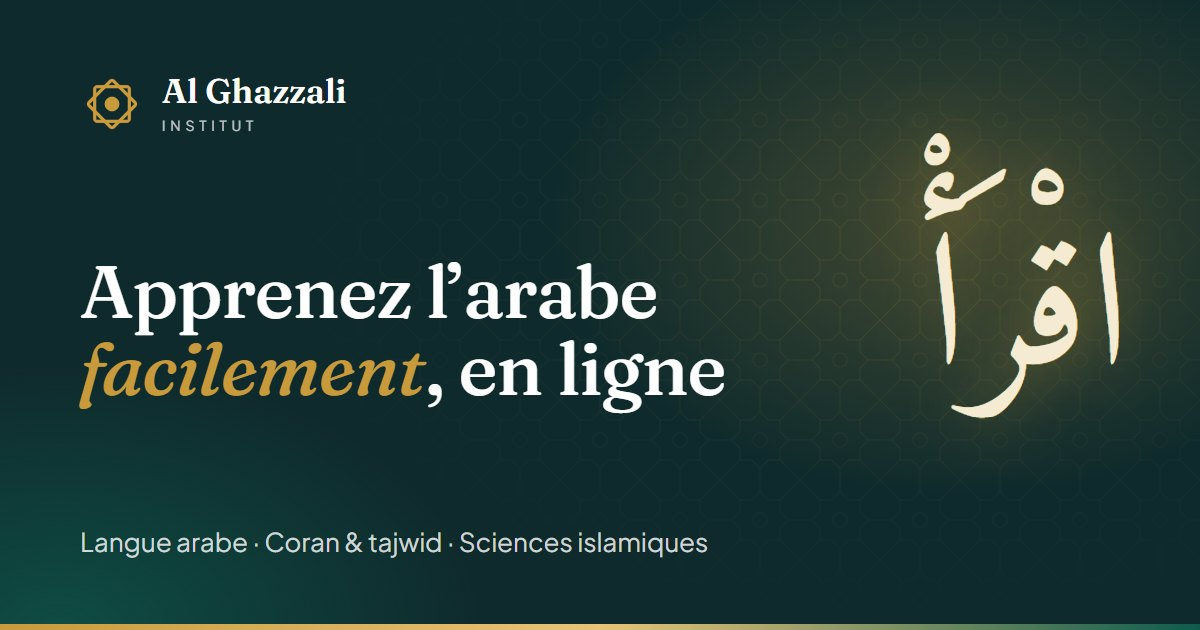
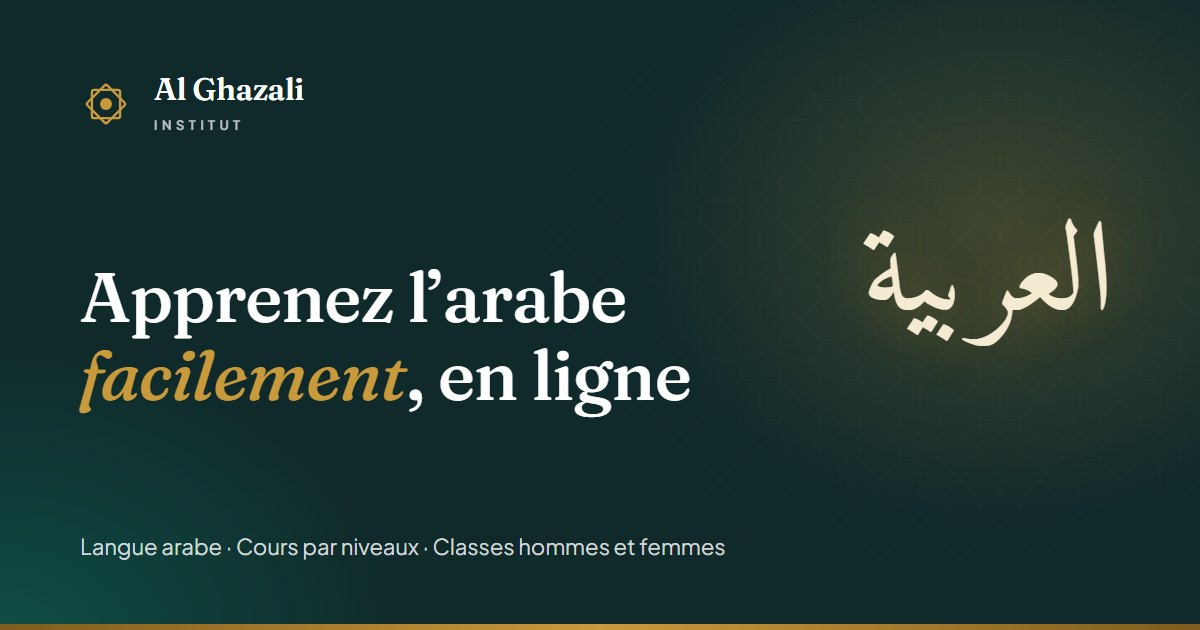
Nom de l'institut : Al Ghazali, avec un seul z (#2)
Tous les textes visibles (nom du site au premier lancement, titres SEO,
contenu de départ, Personnalisateur, en-têtes du thème et de l'extension)
passent de « Al Ghazzali » à « Al Ghazali ». Les identifiants techniques
(AlGhazzali, al-ghazzali) ne s'affichent nulle part et restent tels quels :
le thème actif en production est enregistré sous ce nom.

L'image de partage (og-default.jpg) est refaite à l'identique avec le bon
nom, et une accroche consacrée à la seule langue arabe, à la place de
« Coran & tajwid · Sciences islamiques ».

diff --git a/wp-content/themes/al-ghazzali/style.css b/wp-content/themes/al-ghazzali/style.css
@@ -1,9 +1,9 @@
 /*
-Theme Name: Al Ghazzali Institut
+Theme Name: Al Ghazali Institut
 Theme URI: https://cnx-solutions.fr
 Author: CNX Solutions
 Author URI: https://cnx-solutions.fr
-Description: Thème sur mesure de l'Al Ghazzali Institut : cours d'arabe en ligne par niveaux. Nécessite l'extension « Al Ghazzali Institut ». Rapide, accessible, animé avec sobriété et optimisé pour le référencement.
+Description: Thème sur mesure de l'Al Ghazali Institut : cours d'arabe en ligne par niveaux. Nécessite l'extension « Al Ghazali Institut ». Rapide, accessible, animé avec sobriété et optimisé pour le référencement.
 Version: 1.0.0
 Requires at least: 6.6
 Tested up to: 7.1

diff --git a/wp-content/themes/al-ghazzali/assets/js/app.js b/wp-content/themes/al-ghazzali/assets/js/app.js
@@ -1,5 +1,5 @@
 /**
- * Al Ghazzali Institut : interactions du site (JavaScript natif, sans dépendance).
+ * Al Ghazali Institut : interactions du site (JavaScript natif, sans dépendance).
  *
  * Chaque module est indépendant, ne fait rien si ses éléments sont absents
  * et respecte la préférence « mouvement réduit ». Les textes affichés viennent

diff --git a/wp-content/plugins/al-ghazzali-institut/assets/admin.css b/wp-content/plugins/al-ghazzali-institut/assets/admin.css
@@ -1,4 +1,4 @@
-/* Boîtes de saisie Al Ghazzali Institut : champs empilés et listes répétables. */
+/* Boîtes de saisie Al Ghazali Institut : champs empilés et listes répétables. */
 
 .ag-box__intro { margin: 0 0 14px; color: #50575e; }
 

diff --git a/tools/seed-content.php b/tools/seed-content.php
@@ -45,7 +45,7 @@ $faq_home = array(
 return array(
 
 	'options'       => array(
-		'blogname'               => 'Al Ghazzali Institut',
+		'blogname'               => 'Al Ghazali Institut',
 		'blogdescription'        => 'Institut de langue arabe : cours d’arabe en ligne par niveaux, classes hommes et femmes séparées.',
 		'WPLANG'                 => 'fr_FR',
 		'timezone_string'        => 'Europe/Paris',
@@ -87,11 +87,11 @@ return array(
 			'title'   => 'Accueil',
 			'excerpt' => '',
 			'meta'    => array(
-				SeoFields::TITLE       => 'Institut arabe : cours d’arabe en ligne | Al Ghazzali',
+				SeoFields::TITLE       => 'Institut arabe : cours d’arabe en ligne | Al Ghazali',
 				SeoFields::DESCRIPTION => 'Institut arabe en ligne : cours d’arabe par niveaux, en direct et en petits groupes, classes hommes et femmes séparées. Apprenez l’arabe facilement.',
 			),
 			'content' => ag_b_h2( 'Un institut arabe en ligne pour apprendre l’arabe pas à pas' )
-				. ag_b_p( 'Al Ghazzali Institut est un <strong>institut de langue arabe</strong> qui accompagne les francophones dans l’apprentissage de l’arabe, de la première lettre jusqu’à la lecture de textes authentiques. Nos <strong>cours d’arabe en ligne</strong> se déroulent en direct, en petits groupes, avec des enseignants qui suivent chaque élève.' )
+				. ag_b_p( 'Al Ghazali Institut est un <strong>institut de langue arabe</strong> qui accompagne les francophones dans l’apprentissage de l’arabe, de la première lettre jusqu’à la lecture de textes authentiques. Nos <strong>cours d’arabe en ligne</strong> se déroulent en direct, en petits groupes, avec des enseignants qui suivent chaque élève.' )
 				. ag_b_p( 'Le parcours est découpé en niveaux : lecture et écriture, vocabulaire, grammaire, compréhension, puis expression écrite et orale. Chaque niveau propose des classes séparées pour les hommes et pour les femmes, à des horaires différents.' )
 				. ag_b_h2( 'Pourquoi choisir notre institut ?' )
 				. ag_b_list(
@@ -108,16 +108,16 @@ return array(
 		),
 
 		'institut'                   => array(
-			'title'   => 'L’institut Al Ghazzali',
+			'title'   => 'L’institut Al Ghazali',
 			'order'   => 1,
 			'excerpt' => 'Un institut de langue arabe qui enseigne l’arabe aux francophones avec rigueur, clarté et bienveillance, par niveaux et en classes séparées pour hommes et femmes.',
 			'meta'    => array(
-				SeoFields::TITLE       => 'Institut arabe Al Ghazzali : notre mission et nos valeurs',
-				SeoFields::DESCRIPTION => 'Découvrez l’institut arabe Al Ghazzali : sa mission, ses valeurs et sa méthode pour enseigner la langue arabe aux francophones, par niveaux et en direct.',
+				SeoFields::TITLE       => 'Institut arabe Al Ghazali : notre mission et nos valeurs',
+				SeoFields::DESCRIPTION => 'Découvrez l’institut arabe Al Ghazali : sa mission, ses valeurs et sa méthode pour enseigner la langue arabe aux francophones, par niveaux et en direct.',
 			),
 			'content' => ag_b_h2( 'Notre mission' )
 				. ag_b_p( 'Rendre la langue arabe accessible à chaque francophone. Nous sommes convaincus qu’on peut apprendre l’arabe à tout âge, à condition d’être bien guidé : une méthode claire, des objectifs précis à chaque niveau et des enseignants disponibles.' )
-				. ag_b_h2( 'Pourquoi « Al Ghazzali » ?' )
+				. ag_b_h2( 'Pourquoi « Al Ghazali » ?' )
 				. ag_b_p( 'Notre institut porte le nom d’Abû Hâmid al-Ghazâlî (1058-1111), qui enseigna à la Nizâmiyya de Bagdad, l’une des grandes écoles de son époque. Nous retenons de lui une exigence de pédagogue : expliquer avec clarté, avancer avec méthode et faire de chaque leçon un vrai progrès.' )
 				. ag_b_h2( 'Nos valeurs' )
 				. ag_b_list(
@@ -140,7 +140,7 @@ return array(
 			'template' => 'page-templates/landing.php',
 			'excerpt'  => 'Des cours d’arabe en ligne en direct, en petits groupes, avec des classes séparées pour hommes et femmes : de l’alphabet à la compréhension des textes.',
 			'meta'     => array(
-				SeoFields::TITLE       => 'Cours d’arabe en ligne en direct | Al Ghazzali Institut',
+				SeoFields::TITLE       => 'Cours d’arabe en ligne en direct | Al Ghazali Institut',
 				SeoFields::DESCRIPTION => 'Cours d’arabe en ligne en direct : petits groupes, parcours par niveaux, classes hommes et femmes séparées. Lisez, écrivez et comprenez l’arabe pas à pas.',
 			),
 			'content'  => ag_b_h2( 'Apprendre l’arabe en ligne, avec un vrai enseignant' )
@@ -240,7 +240,7 @@ return array(
 			'template' => 'page-templates/schedule.php',
 			'excerpt'  => 'Les horaires de toutes nos classes d’arabe, jour par jour. Filtrez par formation et par classe (hommes ou femmes) pour trouver votre créneau.',
 			'meta'     => array(
-				SeoFields::TITLE       => 'Emploi du temps des cours d’arabe | Al Ghazzali Institut',
+				SeoFields::TITLE       => 'Emploi du temps des cours d’arabe | Al Ghazali Institut',
 				SeoFields::DESCRIPTION => 'Consultez l’emploi du temps de nos cours d’arabe en ligne, jour par jour : niveaux, horaires et classes séparées pour hommes et femmes.',
 			),
 			'content'  => ag_b_p( 'Les horaires sont indiqués à l’heure de Paris. Chaque fiche formation détaille le programme de ses niveaux.' ),
@@ -252,8 +252,8 @@ return array(
 			'template' => 'page-templates/contact.php',
 			'excerpt'  => 'Une question sur nos formations, votre niveau ou l’organisation des cours ? Écrivez-nous : nous vous répondons et vous orientons vers le groupe adapté.',
 			'meta'     => array(
-				SeoFields::TITLE       => 'Contact : Al Ghazzali Institut',
-				SeoFields::DESCRIPTION => 'Contactez Al Ghazzali Institut pour toute question sur nos cours d’arabe en ligne : niveaux, horaires, classes hommes et femmes. Nous vous orientons.',
+				SeoFields::TITLE       => 'Contact : Al Ghazali Institut',
+				SeoFields::DESCRIPTION => 'Contactez Al Ghazali Institut pour toute question sur nos cours d’arabe en ligne : niveaux, horaires, classes hommes et femmes. Nous vous orientons.',
 			),
 			'content'  => ag_b_h2( 'Nous vous orientons' )
 				. ag_b_p( 'Indiquez-nous votre niveau actuel, votre objectif (lire, comprendre, parler) et vos disponibilités, en précisant si vous souhaitez rejoindre une classe hommes ou une classe femmes : nous vous proposerons le groupe le plus adapté.' ),
@@ -264,7 +264,7 @@ return array(
 			'order'   => 4,
 			'excerpt' => 'Conseils et méthodes pour apprendre l’arabe facilement, progresser niveau après niveau et bien choisir ses cours.',
 			'meta'    => array(
-				SeoFields::TITLE       => 'Blog : conseils pour apprendre l’arabe | Al Ghazzali',
+				SeoFields::TITLE       => 'Blog : conseils pour apprendre l’arabe | Al Ghazali',
 				SeoFields::DESCRIPTION => 'Nos conseils pour apprendre l’arabe facilement : alphabet, méthode, choix des cours et progression par niveaux.',
 			),
 			'content' => '',
@@ -464,7 +464,7 @@ return array(
 						'answer'   => 'Oui, dans la limite des places disponibles, vers un autre créneau du même niveau et de la même classe.',
 					),
 				),
-				SeoFields::TITLE       => 'Cours d’arabe littéraire en ligne, 5 niveaux | Al Ghazzali',
+				SeoFields::TITLE       => 'Cours d’arabe littéraire en ligne, 5 niveaux | Al Ghazali',
 				SeoFields::DESCRIPTION => 'Cours d’arabe littéraire en ligne : 5 niveaux, de l’alphabet aux textes authentiques. En direct, en petits groupes, classes hommes et femmes séparées.',
 			),
 			'content' => ag_b_h2( 'Pourquoi apprendre l’arabe littéraire ?' )
@@ -566,7 +566,7 @@ return array(
 						'answer'   => 'Oui, c’est même recommandé : l’oral renforce le vocabulaire et la grammaire vus dans le parcours écrit.',
 					),
 				),
-				SeoFields::TITLE       => 'Cours d’arabe oral en ligne : conversation | Al Ghazzali',
+				SeoFields::TITLE       => 'Cours d’arabe oral en ligne : conversation | Al Ghazali',
 				SeoFields::DESCRIPTION => 'Parlez arabe avec nos cours de conversation en ligne : séances menées en arabe, 3 niveaux, petits groupes, classes hommes et femmes séparées.',
 			),
 			'content' => ag_b_h2( 'Apprendre à parler arabe' )

diff --git a/wp-content/themes/al-ghazzali/inc/Seo/Archives.php b/wp-content/themes/al-ghazzali/inc/Seo/Archives.php
@@ -32,13 +32,13 @@ final class Archives {
 				'lead'        => __( 'Un parcours par niveaux pour lire, comprendre et parler l’arabe, en direct et en petits groupes.', 'al-ghazzali' ),
 			),
 			PostTypes::TEACHER => array(
-				'title'       => __( 'Notre équipe : enseignants d’arabe | Al Ghazzali', 'al-ghazzali' ),
-				'description' => __( 'La direction et les enseignants d’Al Ghazzali Institut : une équipe qualifiée pour enseigner la langue arabe aux francophones, hommes et femmes.', 'al-ghazzali' ),
+				'title'       => __( 'Notre équipe : enseignants d’arabe | Al Ghazali', 'al-ghazzali' ),
+				'description' => __( 'La direction et les enseignants d’Al Ghazali Institut : une équipe qualifiée pour enseigner la langue arabe aux francophones, hommes et femmes.', 'al-ghazzali' ),
 				'heading'     => __( 'Notre équipe', 'al-ghazzali' ),
 				'lead'        => __( 'La direction et les enseignants qui font vivre l’institut et accompagnent chaque élève.', 'al-ghazzali' ),
 			),
 			PostTypes::EVENT   => array(
-				'title'       => __( 'Événements : ateliers et réunions | Al Ghazzali', 'al-ghazzali' ),
+				'title'       => __( 'Événements : ateliers et réunions | Al Ghazali', 'al-ghazzali' ),
 				'description' => __( 'L’agenda de l’institut : réunions d’information, ateliers découverte et rencontres autour de la langue arabe, en ligne et sur place.', 'al-ghazzali' ),
 				'heading'     => __( 'Nos événements', 'al-ghazzali' ),
 				'lead'        => __( 'Réunions d’information, ateliers et rencontres autour de la langue arabe.', 'al-ghazzali' ),

diff --git a/tools/seed.php b/tools/seed.php
@@ -4,7 +4,7 @@
  *
  * Sur le poste : php tools/seed.php [hôte] [--force]
  * Sans --force, un contenu existant (même slug) n'est jamais écrasé.
- * Active l'extension « Al Ghazzali Institut » si besoin et retire les contenus des versions précédentes.
+ * Active l'extension « Al Ghazali Institut » si besoin et retire les contenus des versions précédentes.
  *
  * En production, une seule fois, par docker/installer.sh sur une base vierge :
  * AG_PREMIERE_INSTALLATION=1 wp eval-file tools/seed.php (jamais de --force).
@@ -57,7 +57,7 @@ if ( ! defined( 'AG_CORE_VERSION' ) ) {
 	}
 	// « init » est déjà passé dans ce processus : types de contenu et groupes enregistrés à la main.
 	Plugin::activate();
-	echo "Extension « Al Ghazzali Institut » activée\n";
+	echo "Extension « Al Ghazali Institut » activée\n";
 }
 
 // Administrateur courant : nécessaire pour enregistrer le balisage des blocs (lang, dir) sans filtrage.
@@ -74,8 +74,8 @@ wp_set_current_user( (int) ( $ag_admins[0] ?? 0 ) );
 wp_update_user(
 	array(
 		'ID'           => (int) ( $ag_admins[0] ?? 0 ),
-		'display_name' => 'Équipe Al Ghazzali',
-		'nickname'     => 'Équipe Al Ghazzali',
+		'display_name' => 'Équipe Al Ghazali',
+		'nickname'     => 'Équipe Al Ghazali',
 	)
 );
 

diff --git a/wp-content/themes/al-ghazzali/inc/Setup/MissingCore.php b/wp-content/themes/al-ghazzali/inc/Setup/MissingCore.php
@@ -1,6 +1,6 @@
 <?php
 /**
- * Extension « Al Ghazzali Institut » absente : le site se met en pause proprement (503) au lieu de casser.
+ * Extension « Al Ghazali Institut » absente : le site se met en pause proprement (503) au lieu de casser.
  *
  * @package AlGhazzali
  */
@@ -24,7 +24,7 @@ final class MissingCore implements Hookable {
 		}
 		printf(
 			'<div class="notice notice-error"><p>%1$s <a href="%2$s">%3$s</a></p></div>',
-			esc_html__( 'Le thème Al Ghazzali a besoin de l’extension « Al Ghazzali Institut » (formations, équipe, emploi du temps). Le site est en maintenance tant qu’elle est désactivée.', 'al-ghazzali' ),
+			esc_html__( 'Le thème Al Ghazali a besoin de l’extension « Al Ghazali Institut » (formations, équipe, emploi du temps). Le site est en maintenance tant qu’elle est désactivée.', 'al-ghazzali' ),
 			esc_url( admin_url( 'plugins.php' ) ),
 			esc_html__( 'Activer l’extension', 'al-ghazzali' )
 		);

diff --git a/tools/install-local.php b/tools/install-local.php
@@ -30,7 +30,7 @@ if ( 'local' !== wp_get_environment_type() ) {
 
 if ( ! is_blog_installed() ) {
 	$password = wp_generate_password( 20, true, false );
-	$result   = wp_install( 'Al Ghazzali Institut', 'cnx-admin', 'admin@alghazzali.localhost', true, '', $password, 'fr_FR' );
+	$result   = wp_install( 'Al Ghazali Institut', 'cnx-admin', 'admin@alghazzali.localhost', true, '', $password, 'fr_FR' );
 	echo "WordPress installé.\nIdentifiant : cnx-admin\nMot de passe : {$password}\n";
 	if ( empty( $result['user_id'] ) ) {
 		fwrite( STDERR, "Échec de l'installation.\n" );

diff --git a/wp-content/themes/al-ghazzali/page-templates/contact.php b/wp-content/themes/al-ghazzali/page-templates/contact.php
@@ -54,7 +54,7 @@ while ( have_posts() ) :
 					<?php endforeach; ?>
 				</ul>
 			<?php elseif ( current_user_can( 'customize' ) ) : ?>
-				<p class="notice"><?php esc_html_e( 'Renseignez vos coordonnées dans Apparence › Personnaliser › Al Ghazzali Institut › Coordonnées.', 'al-ghazzali' ); ?></p>
+				<p class="notice"><?php esc_html_e( 'Renseignez vos coordonnées dans Apparence › Personnaliser › Al Ghazali Institut › Coordonnées.', 'al-ghazzali' ); ?></p>
 			<?php endif; ?>
 
 			<?php if ( '' !== $ag_institute->get( 'hours' ) ) : ?>

diff --git a/wp-content/themes/al-ghazzali/functions.php b/wp-content/themes/al-ghazzali/functions.php
@@ -1,10 +1,10 @@
 <?php
 /**
- * Al Ghazzali Institut : amorçage du thème.
+ * Al Ghazali Institut : amorçage du thème.
  *
  * Ce fichier ne contient aucune logique : il charge l'autoloader et démarre les modules.
  * Les contenus (formations, équipe, emploi du temps, événements) viennent de l'extension
- * « Al Ghazzali Institut » ; le thème se charge de leur affichage et du référencement.
+ * « Al Ghazali Institut » ; le thème se charge de leur affichage et du référencement.
  *
  * @package AlGhazzali
  */

diff --git a/wp-content/themes/al-ghazzali/inc/Settings/Customizer.php b/wp-content/themes/al-ghazzali/inc/Settings/Customizer.php
@@ -1,6 +1,6 @@
 <?php
 /**
- * Panneau « Al Ghazzali Institut » du Customizer, généré depuis Institute::settings().
+ * Panneau « Al Ghazali Institut » du Customizer, généré depuis Institute::settings().
  *
  * @package AlGhazzali
  */
@@ -23,7 +23,7 @@ final class Customizer implements Hookable {
 		$wp_customize->add_panel(
 			self::PANEL,
 			array(
-				'title'    => __( 'Al Ghazzali Institut', 'al-ghazzali' ),
+				'title'    => __( 'Al Ghazali Institut', 'al-ghazzali' ),
 				'priority' => 30,
 			)
 		);

diff --git a/wp-content/mu-plugins/alghazali-smtp.php b/wp-content/mu-plugins/alghazali-smtp.php
@@ -1,6 +1,6 @@
 <?php
 /**
- * Plugin Name: Al Ghazzali Institut — envoi des courriels
+ * Plugin Name: Al Ghazali Institut — envoi des courriels
  * Description: Envoie les courriels de WordPress par le serveur SMTP déclaré dans l'environnement (SMTP_*). Sans SMTP_HOST, ne change rien et journalise les échecs.
  * Version: 1.0.0
  * Author: CNX Solutions
